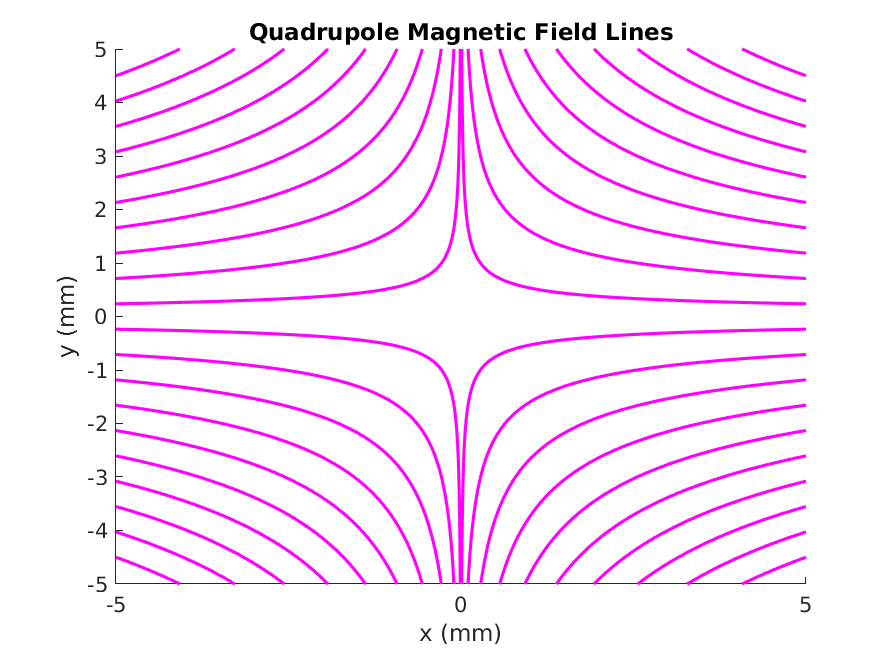
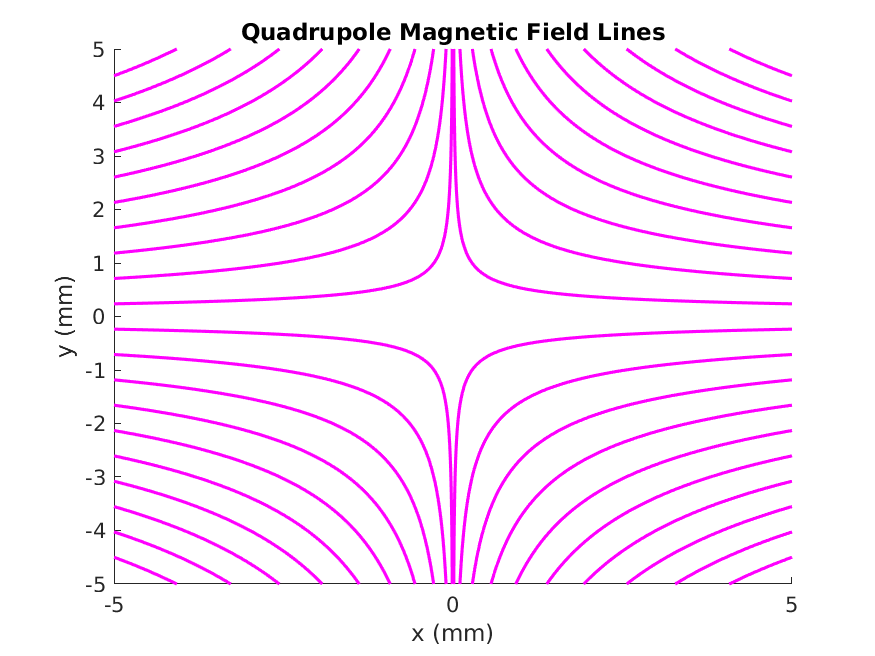
add functions for anti-helmholz coils

diff --git a/Magnetized Plasmas/Theoretical Quadrupole Fields/fieldFromSingleCurrentLoop.m b/Magnetized Plasmas/Theoretical Quadrupole Fields/fieldFromSingleCurrentLoop.m
@@ -15,6 +15,10 @@ function [Bp,Bz] = fieldFromSingleCurrentLoop(z,p,z0,pol)
     % current through the loop, and a is the radius of the loop. The natural unit for
     % legnth is a.
     
+    % Note that the radial component is typically positive definite in terms of definition, but we
+    % often like to plot on cartesian axes. I have rigged the equations to flip the polarity of the
+    % fields in the radial direction as you cross zero to make it easier for plotting.
+    
     % Inputs:
         % z: position along symmetry axis in units of loop radius a. Must be a double
         % that is the same size as p. Note that the fields are calculated for position z with a coil centered on the
@@ -39,8 +43,8 @@ function [Bp,Bz] = fieldFromSingleCurrentLoop(z,p,z0,pol)
 %% Define variables for calculation
 zRel = z-z0;    % z-position relative to z0 (center of current loop)
 
-A = sqrt(1+p.^2+zRel.^2-2.*p);  % calculate dimensionless parameters relevant for field calculation
-B = sqrt(1+p.^2+zRel.^2+2.*p);
+A = sqrt(1+p.^2+zRel.^2-2.*abs(p));  % calculate dimensionless parameters relevant for field calculation
+B = sqrt(1+p.^2+zRel.^2+2.*abs(p));
 k = abs(1-A.^2./B.^2);
 
 %% Evaluate elliptic integrals
@@ -49,12 +53,13 @@ k = abs(1-A.^2./B.^2);
 
 %% Calculate field com
 
-Bp = abs(zRel./(2.*pi.*A.^2.*B.*p).*((1+p.^2+zRel.^2).*E-A.^2.*K)); % radial component of field
+Bp = zRel./(2.*pi.*A.^2.*B.*p).*((1+p.^2+zRel.^2).*E-A.^2.*K); % radial component of field
 Bz = 1./(2.*pi.*A.^2.*B).*((1-p.^2-zRel.^2).*E+A.^2.*K);    % z-component of field
 
 if nargin == 4  % flip direction of current flow if necessary
     if pol == -1
         Bz = -Bz;
+        Bp = -Bp;
     end
 end
 

diff --git a/Magnetized Plasmas/Theoretical Quadrupole Fields/testFieldLineCalcAntiHelmholtz.m b/Magnetized Plasmas/Theoretical Quadrupole Fields/testFieldLineCalcAntiHelmholtz.m
@@ -1,0 +1,51 @@
+clc, clearvars, close all
+
+%% Get Quadrupole Magnetic Field
+
+zRange = [-15 15];    % range of z-positions (units: mm)
+pRange = [-6 6];    % range of p-positions (units: mm)
+numZPts = 250;      % number of positions to calculate field for within z-range
+numPPts = 250;      % number of positions to calculate field for within p-range
+amps = 80;  % current flowing through each loop (units: A)
+
+s = fieldForTwoCoilAntiHelmholtz(zRange,pRange,numZPts,numPPts,amps);
+
+%% Test Field Line Calculation Function
+dr = .01;
+x0 = [-15 15]; % starting position along x-axis in mm
+y0 = [0.5 1.5 2.5 3.5];
+y0 = [y0 -y0];
+
+iter = 0;
+tic
+for l = 1:length(s)
+    for k = 1:length(dr)
+        for j = 1:length(x0)
+            for i = 1:length(y0)
+                Bx = s(l).Bz;
+                By = s(l).Bp;
+                xvec = s(l).zInMM;
+                yvec = s(l).pInMM;
+
+                iter = iter + 1;
+                [line(iter)] = calcFieldLine(x0(j),y0(i),Bx,By,xvec,yvec,dr(k));
+            end
+        end
+    end
+end
+toc
+
+%% Plot Results
+
+fig = figure;
+fig.Position = [510   314   560   420];
+hold on
+for i = 1:length(line)
+    plot(line(i).x,line(i).y,'.m','LineWidth',1.5)
+end
+xlabel('x (mm)')
+ylabel('y (mm)')
+xlim(zRange)
+ylim(pRange)
+title('Quadrupole Magnetic Field Lines')
+saveas(fig,'field-lines.png','png')

diff --git a/Magnetized Plasmas/Theoretical Quadrupole Fields/fieldForTwoCoilAntiHelmholtz.m b/Magnetized Plasmas/Theoretical Quadrupole Fields/fieldForTwoCoilAntiHelmholtz.m
@@ -1,4 +1,4 @@
-function [s] = fieldForQuadrupoleConfig(zRange,pRange,numZPts,numPPts,amps)
+function [s] = fieldForTwoCoilAntiHelmholtz(zRange,pRange,numZPts,numPPts,amps)
 %% Program Notes
 
     % This program calculates the magnetic field produced by an array of current
@@ -37,10 +37,10 @@ function [s] = fieldForQuadrupoleConfig(zRange,pRange,numZPts,numPPts,amps)
 % loops are wrapped around a cylindrial part of the chamber with diameter 2.8 cm.
 % Thus, the radius of the inner-most current loop is 1.4 cm plus half the diameter.
 
-numWraps = 9;   % calculate relevant z-positions of the coils.
-wireDiameter = 4;   % units: mm
-coilSpacing = 70;    % units: mm
-coilRadius = 14;    % units: mm
+numWraps = 1;   % calculate relevant z-positions of the coils.
+wireDiameter = 0;   % units: mm
+coilSpacing = 20;    % units: mm
+coilRadius = 5;    % units: mm
 
 zPos = zeros(1,numWraps);
 for ii = 1:numWraps

diff --git a/Magnetized Plasmas/Theoretical Quadrupole Fields/testAntiHelmholtzFunction.m b/Magnetized Plasmas/Theoretical Quadrupole Fields/testAntiHelmholtzFunction.m
@@ -4,13 +4,13 @@ close all
 
 %% Get field calculations
 
-zRange = [-5 5];    % range of z-positions (units: mm)
-pRange = [-5 5];    % range of p-positions (units: mm)
+zRange = [-6 6];    % range of z-positions (units: mm)
+pRange = [-.8 .8];    % range of p-positions (units: mm)
 numZPts = 1000;      % number of positions to calculate field for within z-range
 numPPts = 1000;      % number of positions to calculate field for within p-range
 amps = 80;  % current flowing through each loop (units: A)
 
-s = fieldForQuadrupoleConfig(zRange,pRange,numZPts,numPPts,amps);
+s = fieldForTwoCoilAntiHelmholtz(zRange,pRange,numZPts,numPPts,amps);
 
 %% Plot coil dimensions
 
@@ -45,7 +45,7 @@ close all
 clear fig ax
 
 fig2 = figure;
-imagesc(s.zInMM,s.pInMM,s.Bz)
+imagesc(s.zInMM,s.pInMM,s.Bp)
 c = colorbar;
 ax = gca;
 ax.YDir = 'normal';

diff --git a/Magnetized Plasmas/Theoretical Quadrupole Fields/calcFieldLine.m b/Magnetized Plasmas/Theoretical Quadrupole Fields/calcFieldLine.m
@@ -29,13 +29,7 @@ while test
     currBx = interp2(X,Y,Bx,linex(iter),liney(iter));
     currBy = interp2(X,Y,By,linex(iter),liney(iter));
     
-    if liney(iter) > 0
-%         B = [Bx(indy,indx) By(indy,indx)]; % get magnetic field at current position
         B = [currBx currBy];
-    else
-%         B = [Bx(indy,indx) -By(indy,indx)]; % get magnetic field at current position
-        B = [currBx -currBy]; 
-    end
     b = B./norm(B); % get unit direction of magnetic field
     
     dx = b(1)*dr; % change in x-pos for this iteration
